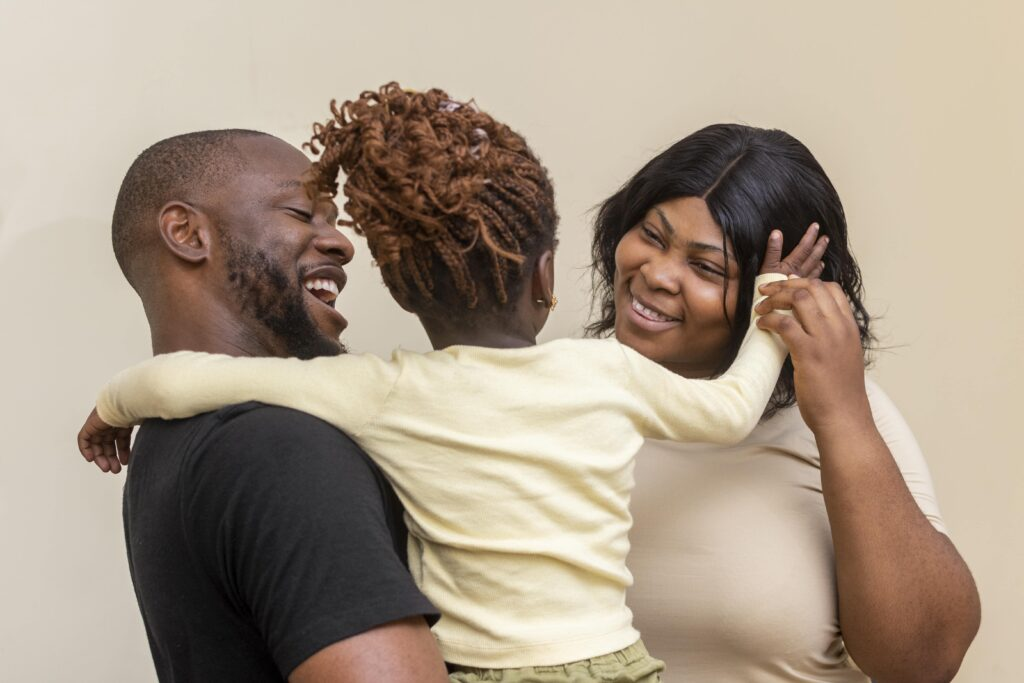
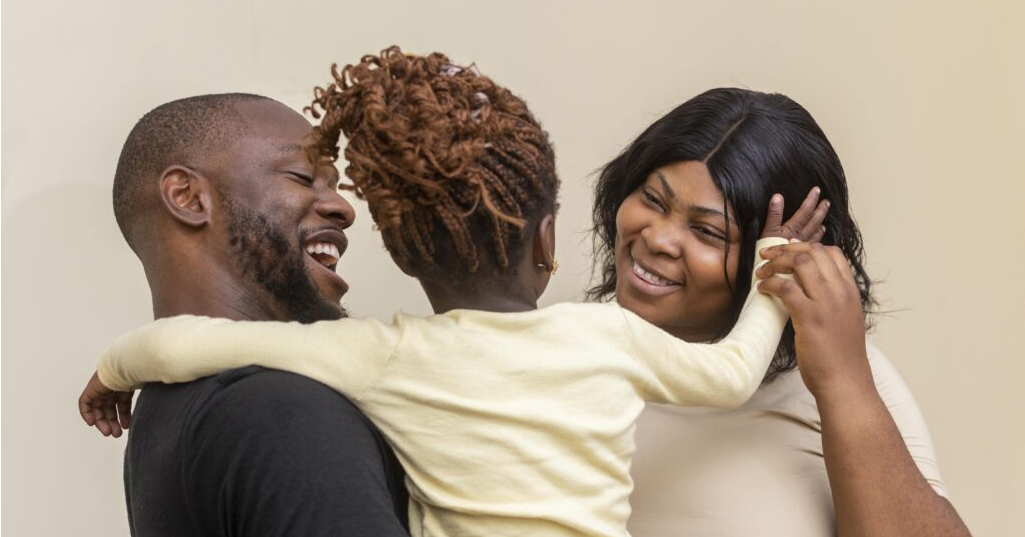
commit

diff --git a/components/landing/third.vue b/components/landing/third.vue
@@ -9,17 +9,17 @@
         <div class="grid nogutter">
             <div class="col-12 lg:col-6 p-6">
             <div class="custom-shadow-2 border-round h-full surface-card">
-            <img src="/images/civil.jpg" alt="Image" class="image-height block w-full border-round-top">
+            <img src="/images/civil.jpg" alt="Image" class=" block w-full border-round-top">
             <div class="p-4">
                 <div class="text-xl text-900 font-medium mb-3 line-height-3">Civil Servants</div>
-                <div class="line-height-3 mb-3 text-700 mb-4">Cater specifically to civil servants, providing health coverage tailored to the unique healthcare requirements of government employees.</div>
+                <div class="line-height-3 mb-3 text-700 mb-4">Cater specifically to civil servants, providing health coverage tailored for government employees.</div>
                 <Button @click="navigateTo('/civil')" class="p-button p-component w-full" label="Register Today" icon="pi pi-map" />
             </div>
             </div>
         </div>
         <div class="col-12 lg:col-6 p-6">
             <div class="custom-shadow-2 border-round h-full surface-card">
-            <img  src="/images/individuals.jpg" alt="Image" class="image-height block w-full border-round-top">
+            <img  src="/images/individuals.jpg" alt="Image" class="block w-full border-round-top">
             <div class="p-4">
                 <div class="text-xl text-900 font-medium mb-3 line-height-3">Individuals</div>
                 <div class="line-height-3 mb-3 text-700 mb-4">Tailored to provide comprehensive health coverage and additional benefits to individual members.</div>
